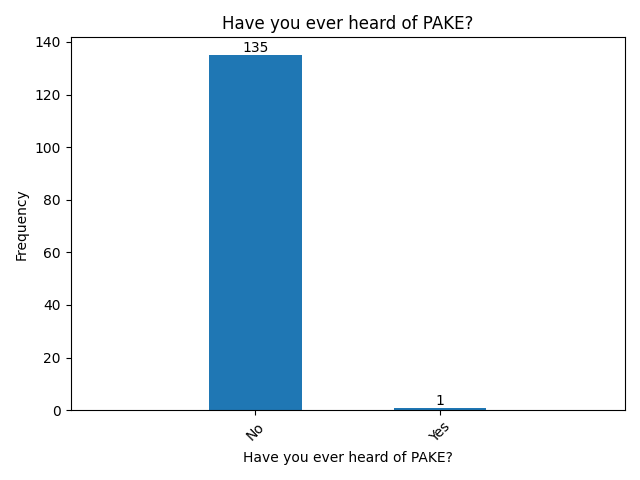
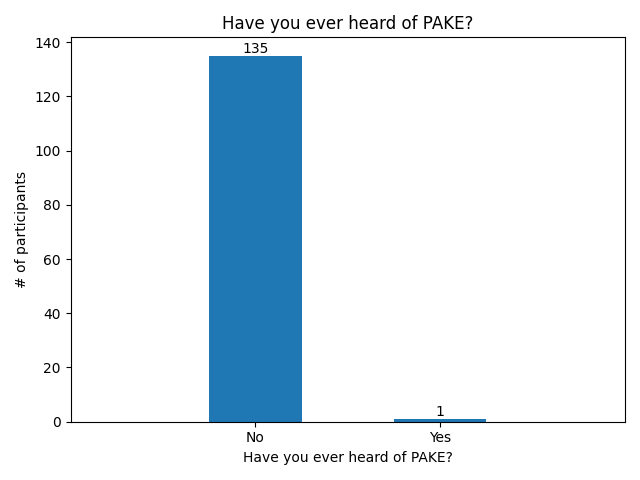
finished survey result. work on conclusion and bib tmr

diff --git a/report/survey_result.tex b/report/survey_result.tex
@@ -1,4 +1,4 @@
-\section{Questionnaire result and discussion}
+\section{Questionnaire result}
 
 
 
@@ -10,7 +10,7 @@ From our friend groups and family members, we assume all the participants to the
 \begin{figure}[ht]
   \centering
   \includegraphics[width=0.4\textwidth]{./images/know_pake.png}
-  \caption{TODO: change caption}
+  \caption{Numbers of participants heard about PAKE}
   \label{fig:know_pake}
 \end{figure}
 
@@ -27,48 +27,66 @@ They highlighted that "PAKE protocols use zero-knowledge proofs to authenticate 
 \begin{figure}[ht]
   \centering
   \includegraphics[width=0.4\textwidth]{./images/service_provider_trust.png}
-  \caption{TODO: change caption}
+  \caption{Trust towards service providers with participants' passwords.
+    The intensity is measured on a scale of 1 to 5, where 1 represents not secure, and 5 represents very secure.}
   \label{fig:trust}
 \end{figure}
 
 
 \subsection{Trust to Password over TLS and service providers}
+\label{sec:trust}
 We are also curious how users trust service providers with their password.
 We informed the participants that Password over TLS implementation requires storing encrypted password in the service providers' databases, and wanted to collect some feedback for this implementation.
 Most answers surrounded the idea of data breach and leaks, which is one way an adversary gain control of a user's account.
 One participant mentioned that "widely-used authentication methods, once subject to a data breach, are completely vulnerable: all users' data can be extracted, as user passwords are entirely stored on the server side databases."
 While this is not entirely correct, storing password in server's database can add additional risks to lose all other personal data stored with the service provider.
 
-Another participant mentioned password reusing, which he said most people would not bother to remember multiple passwords to different services, which can put all the services that use same password in danger if one of them is breached.
+Another participant mentioned password reusing, saying that most people would not bother to remember multiple passwords to different services, which can put all the services that use same password in danger if one of them is breached.
 He also said in order to prevent the incident from happening, users often use password managers or notebook applications to keep track their passwords, but the additional use of programs brings another vulnerability to the potential leak of passwords.
 
-
-
+Furthermore, we asked the participants whether they trust service providers with their passwords.
+The result in ~\figref{fig:trust} shows that part of the uses are confident about their password being handled safely by the service providers, but at the same time, another part of the participants felt uncertain about the situation.
+We can see a slightly right skewed trend from the figure, but we believe it is not significant enough to show whether a user trust the server would safe their passwords securely or not.
+% From the average of the result, we did not see any significant tendency whether a user trust or is skeptical of the Password over TLS implementation.
 
 
 
 \begin{figure}[ht]
   \centering
   \includegraphics[width=0.4\textwidth]{./images/secure_preference.png}
-  \label{fig:}
-  \caption{TODO: change caption}
+  \caption{Participants' opinion on PAKE protocols. 
+  The intensity is measured on a scale from 1 to 5, where 1 represents most unlikely, and 5 represents most likely}
+  \label{fig:preference}
 \end{figure}
 
 \subsection{Preference between PAKE and Password over TLS}
+\label{sec:preference}
 
+In the questionnaire we stressed the point that PAKE protocols do not require passwords to be sent through the internet.
+We would like to see how participants would response with this information, whether they think it is more secure or less.
+From ~\figref{fig:preference}, it is apparent that the majority of participants view authentication methods that avoid transmitting passwords over the internet as more secure, and have a higher preference to embrace protocols that does not require transmitting.
+% We can see such tendency are positively related to each other, 
 
-
-
-
-
-
+In ~\secref{sec:trust}, participants pointed out some potential flaws Password over TLS have, but only a slight right skew on ~\figref{fig:trust} is observed.
+% does not seem to have a common agreement on the trust towards service providers.
+However, in ~\secref{sec:preference}, they showed high interest in using protocols that does not send sensitive information. 
+We assume that the slight right skew comes from the trust towards big companies that most users think are reliable, but when an alternative that does not require sensitive data to be transmitted, users would opt for the second option to guard their security.
 
 \begin{figure}[ht]
   \centering
   \includegraphics[width=0.4\textwidth]{./images/ux_compare.png}
-  \label{fig:}
-  \caption{TODO: change caption}
+  \caption{Response time difference between PAKE protocols and Password over TLS.
+  The intensity is measured on a scale from 1 to 5, where 1 represents much slower, and 5 represents much faster.}
+  \label{fig:compare}
 \end{figure}
 
-
 \subsection{User experience analysis}
+We provided participants with access to the three implementations, enabling them to directly assess the variations in time consumption. 
+Participants were then instructed to log in using all three services, assess their responsiveness, and make comparisons between the two PAKE protocols and the controlled Password over TLS implementation.
+From ~\figref{fig:compare}, participants report similar time consumption when comparing both PAKE protocols to Password over TLS.
+
+This raises our question about why PAKE is rarely implemented. 
+Despite the minimal differences in user experience compared to Password over TLS, we anticipated increased adoption of PAKE across various platforms.
+However, the reality contradicts our expectations.
+We assume that developers chose not to implement PAKE protocols becuase the heavy workload that falls on the server side, showed in ~\secref{sec:exp_results}.
+Also, PAKE implementations are much more complicated then Password over TLS, which requires much more effort to trace the logic when building the protocol and maintaining the system. 
